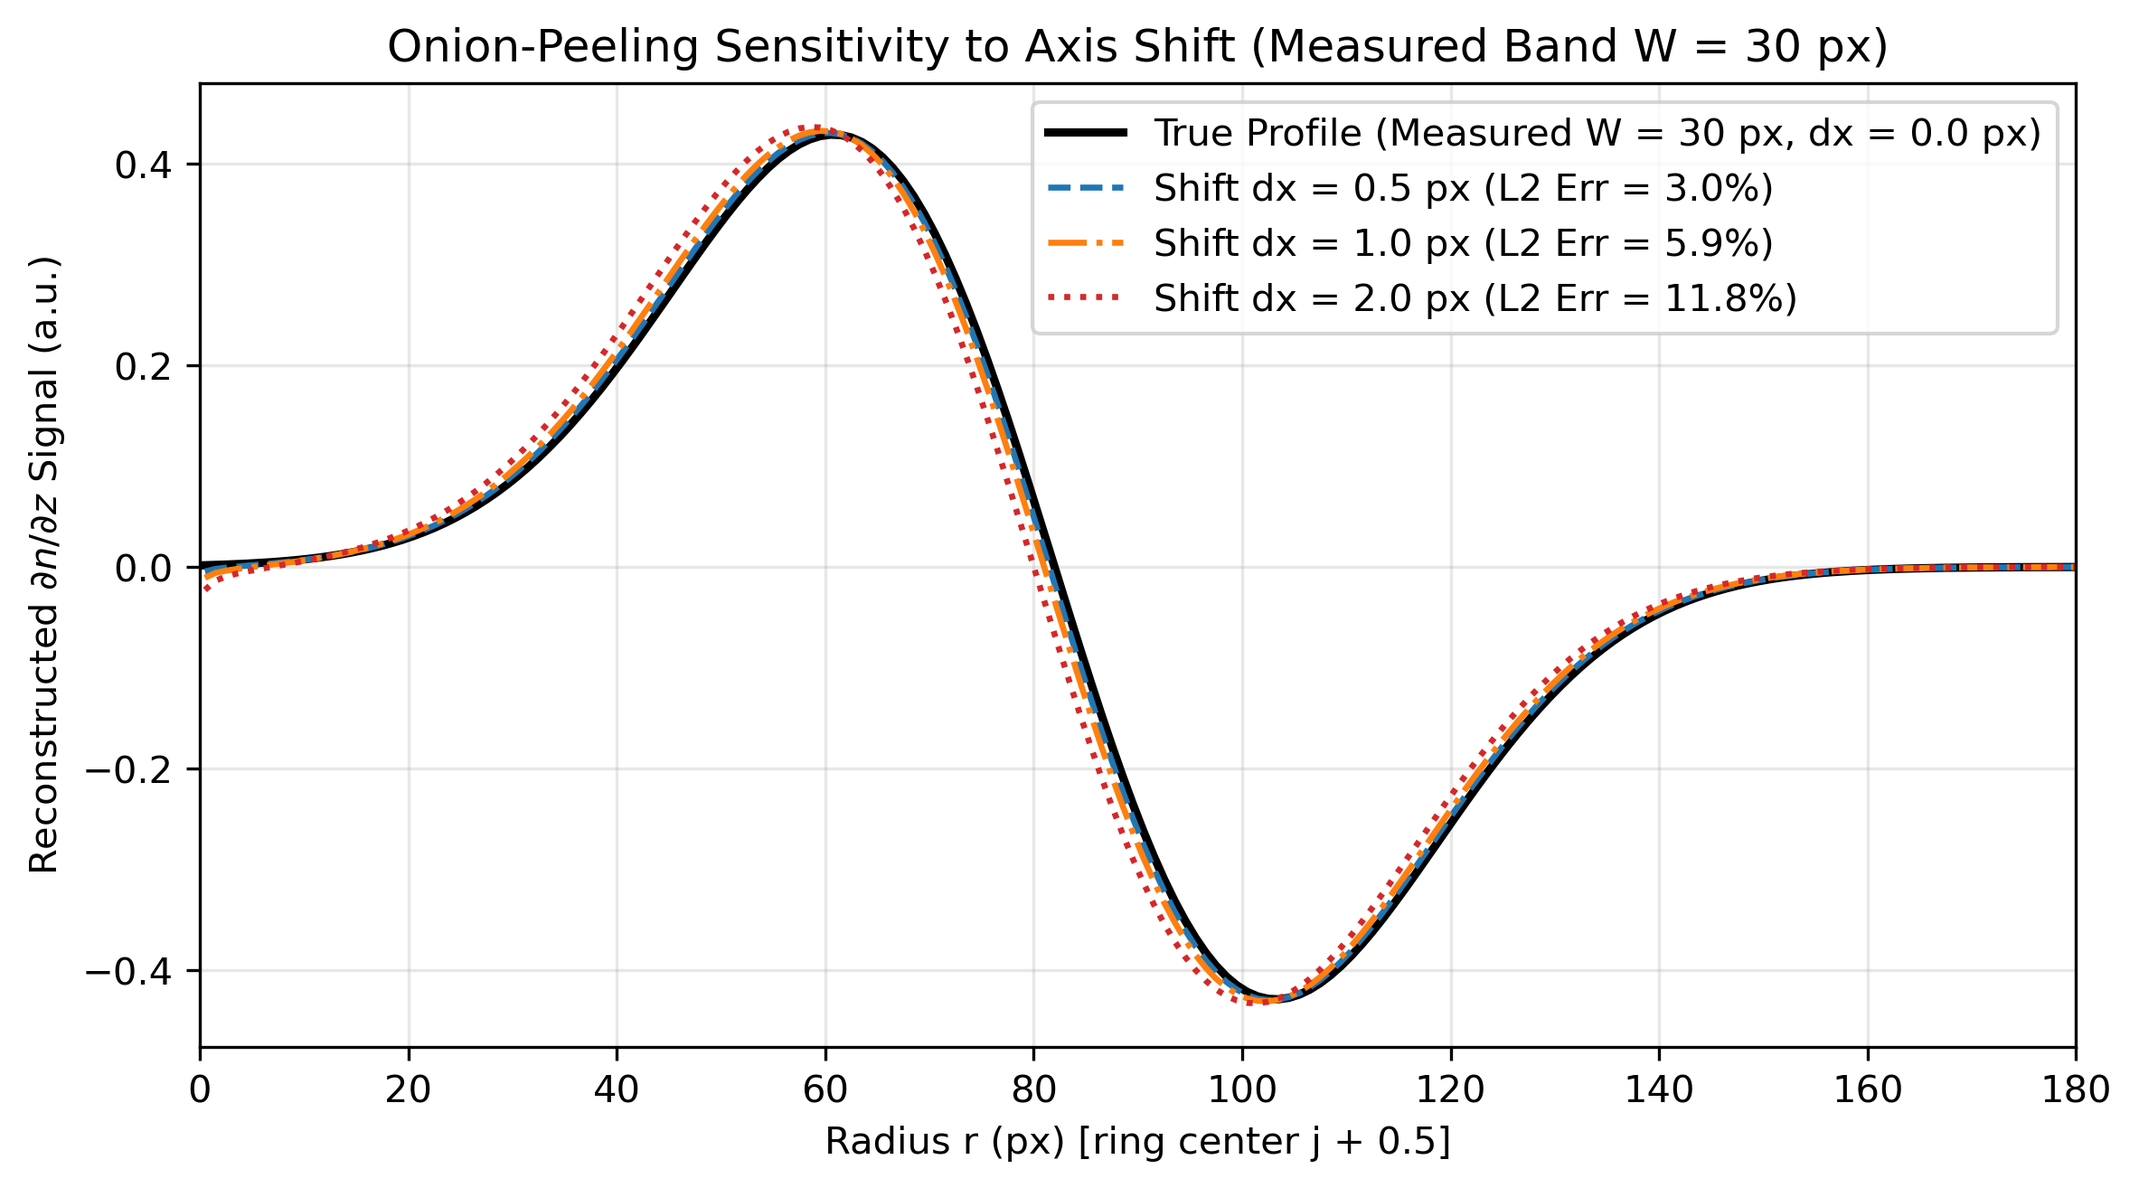
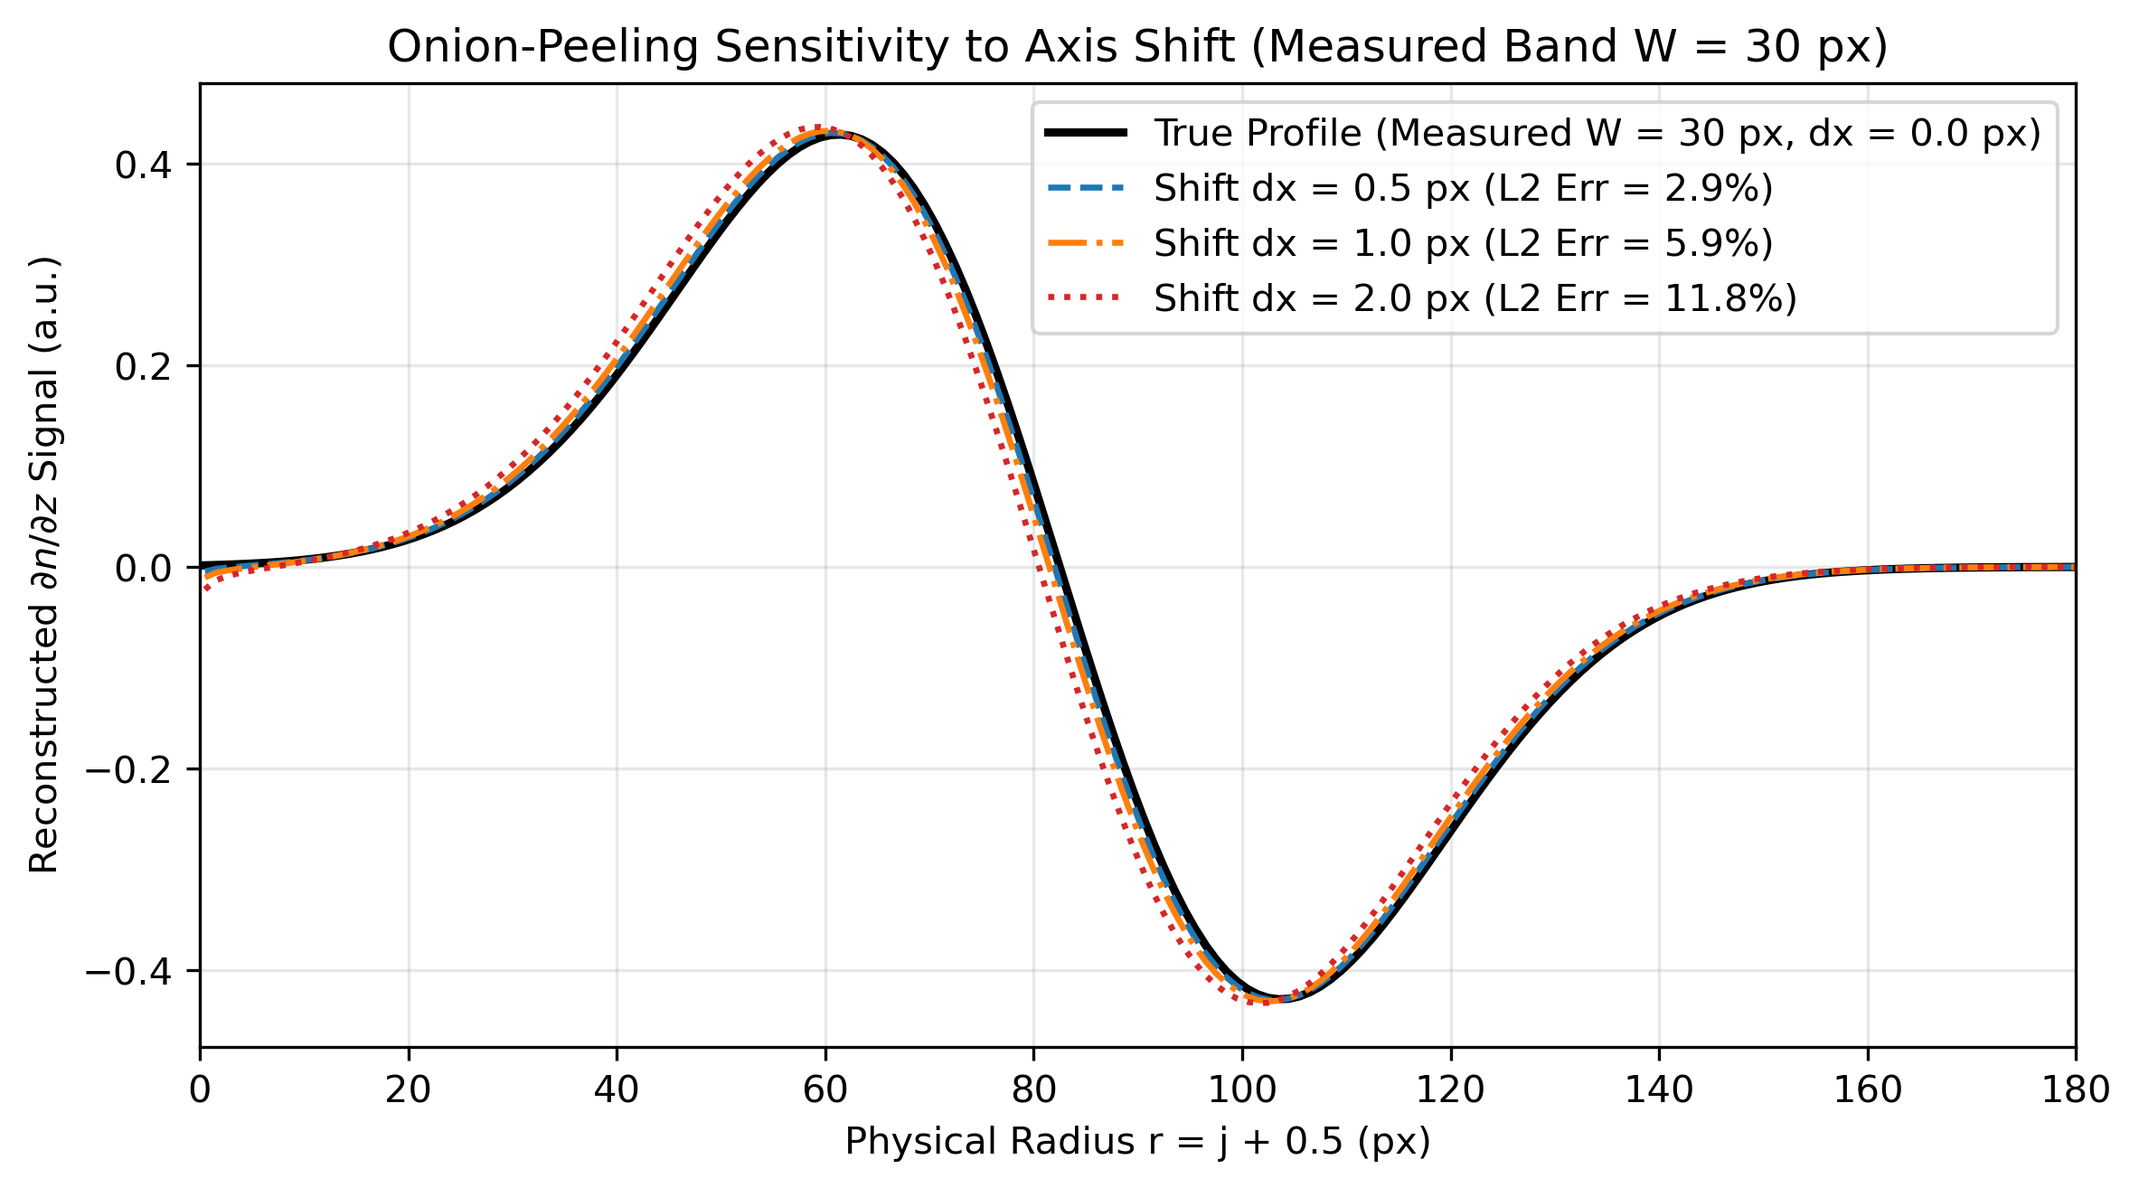
atualizacao de codigo

diff --git a/src/analysis_uncertainty.py b/src/analysis_uncertainty.py
@@ -9,8 +9,7 @@ from utils import (
     calcular_matriz_ART_inversa,
     extrair_metade_direita,
     carregar_delta_eixo,
-    medir_corpo_rombo_background,
-    D_BLUFF_MM
+    medir_corpo_rombo_background
 )
 
 BASE_DIR = os.path.dirname(os.path.dirname(os.path.abspath(__file__)))
@@ -112,22 +111,21 @@ np.save(os.path.join(DIR_PROCESSED, 'sigma_rec_bg.npy'), sigma_rec_bg_full)
 np.save(os.path.join(DIR_PROCESSED, 'rms_ab1_corrigido.npy'), rms_ab1_corr_full)
 np.save(os.path.join(DIR_PROCESSED, 'rms_iso_ab1_corrigido.npy'), rms_iso_corr_full)
 
-# Measure and save burner geometry from Background so all visualization scripts use the exact measured R_b
 d_bluff_px, centro_bg, delta_bg = medir_corpo_rombo_background(bg_medio, COL_SIMETRIA)
 r_bluff_px = 0.5 * d_bluff_px
-scale_mm_per_px = D_BLUFF_MM / d_bluff_px
 np.save(
     os.path.join(DIR_PROCESSED, 'geometria_queimador.npy'),
-    np.array([d_bluff_px, r_bluff_px, centro_bg, delta_bg, scale_mm_per_px])
+    np.array([d_bluff_px, r_bluff_px, centro_bg, delta_bg])
 )
 
 rms_eixo_before = float(np.mean(rms_ab1_chama[:, 0]))
 rms_eixo_after = float(np.mean(rms_ab1_corr[:, 0]))
 pct_eixo = ((rms_eixo_after - rms_eixo_before) / rms_eixo_before) * 100.0
 
-r_frente_ref = int(np.argmin(media_ab1_chama[80, 25:140]) + 25)
-rms_front_before = float(rms_ab1_chama[80, r_frente_ref])
-rms_front_after = float(rms_ab1_corr[80, r_frente_ref])
+j_frente_ref = int(np.argmin(media_ab1_chama[80, 25:140]) + 25)
+r_frente_ref = j_frente_ref + 0.5
+rms_front_before = float(rms_ab1_chama[80, j_frente_ref])
+rms_front_after = float(rms_ab1_corr[80, j_frente_ref])
 pct_front = ((rms_front_after - rms_front_before) / rms_front_before) * 100.0
 
 r_slice = slice(20, 150)
@@ -136,23 +134,23 @@ frac_iso_sem_sinal = np.mean(rms_iso_ab1[:, r_slice] <= sigma_rec_bg[:, r_slice]
 snr_chama_frente = np.mean(rms_ab1_chama[40:200, 75:100] / sigma_rec_bg[40:200, 75:100])
 
 print(f"Mean Raw Sensor Noise (Background RMS, delta={delta_aplicado:+.2f} px): {np.mean(rms_bg_raw):.4f} a.u.")
-print(f"Reconstructed Background Noise: Axis R=0 = {np.mean(sigma_rec_bg[:, 0]):.4f} | Radial Mean = {np.mean(sigma_rec_bg):.4f} a.u.")
-print(f"Flame RMS at Axis (R=0): Uncorrected = {rms_eixo_before:.4f} -> Corrected = {rms_eixo_after:.4f} ({pct_eixo:+.1f}%)")
-print(f"Flame RMS at Front (Z=80, R={r_frente_ref}): Uncorrected = {rms_front_before:.4f} -> Corrected = {rms_front_after:.4f} ({pct_front:+.1f}%)")
-print(f"\nISO Null-Case Verification (r = 20..150 px):")
+print(f"Reconstructed Background Noise: Axis j=0 (r=0.5 px) = {np.mean(sigma_rec_bg[:, 0]):.4f} | Radial Mean = {np.mean(sigma_rec_bg):.4f} a.u.")
+print(f"Flame RMS at Axis (j=0, r=0.5 px): Uncorrected = {rms_eixo_before:.4f} -> Corrected = {rms_eixo_after:.4f} ({pct_eixo:+.1f}%)")
+print(f"Flame RMS at Front (Z=80, j={j_frente_ref}, r={r_frente_ref:.1f} px): Uncorrected = {rms_front_before:.4f} -> Corrected = {rms_front_after:.4f} ({pct_front:+.1f}%)")
+print(f"\nISO Null-Case Verification (j = 20..150):")
 print(f"   -> ISO RMS / sigma_rec range: {np.min(snr_iso_perfil):.2f} to {np.max(snr_iso_perfil):.2f} (Flame front is ~{snr_chama_frente:.1f}x noise)")
 print(f"   -> Pixels without resolvable signal (RMS_iso <= sigma_rec): {frac_iso_sem_sinal:.1f}%")
-print(f"   -> ISO RMS at R=20 px (Z=40..120): Uncorrected = {np.mean(rms_iso_ab1[40:121, 20]):.3f} -> Corrected = {np.mean(rms_iso_corr[40:121, 20]):.3f} a.u.\n")
+print(f"   -> ISO RMS at j=20 (r=20.5 px, Z=40..120): Uncorrected = {np.mean(rms_iso_ab1[40:121, 20]):.3f} -> Corrected = {np.mean(rms_iso_corr[40:121, 20]):.3f} a.u.\n")
 
 fig_rms, axs_rms = plt.subplots(1, 3, figsize=(15, 4.2))
 for i, z in enumerate([40, 80, 120]):
-    r_ax = np.arange(NUM_PIXEIS_RAIO) + 0.5  # Ring center r_j = j + 0.5 px
+    r_ax = np.arange(NUM_PIXEIS_RAIO) + 0.5
     axs_rms[i].plot(r_ax, rms_ab1_chama[z, :], 'r--', alpha=0.5, label='Flame Uncorrected RMS')
     axs_rms[i].plot(r_ax, rms_ab1_corr[z, :], 'r-', linewidth=1.8, label=r'Flame Corrected $\sqrt{RMS^2 - \sigma_{rec}^2}$')
     axs_rms[i].plot(r_ax, sigma_rec_bg[z, :], 'k:', linewidth=1.5, label=r'Propagated Noise $\sigma_{rec}$')
     axs_rms[i].plot(r_ax, rms_iso_corr[z, :], 'b-', alpha=0.8, linewidth=1.2, label='ISO Corrected RMS (Null Case)')
     axs_rms[i].set_title(f'Noise-Corrected RMS Profile (Z = {z} px)')
-    axs_rms[i].set_xlabel('Radius r (px)')
+    axs_rms[i].set_xlabel('Physical Radius r = j + 0.5 (px)')
     if i == 0:
         axs_rms[i].set_ylabel(r'Reconstructed $\partial n / \partial z$ RMS (a.u.)')
     axs_rms[i].set_xlim(0, 200)
@@ -172,11 +170,12 @@ FPS = 400.0
 DT_MS = 1000.0 / FPS
 
 z_probes = [40, 80, 120]
-r_probe = 82
+j_probe = 82
+r_probe_phys = j_probe + 0.5
 series_temporais = np.zeros((N_CHAMA, len(z_probes)), dtype=np.float64)
-a_inv_row = A_inv[r_probe, :]
+a_inv_row = A_inv[j_probe, :]
 
-print(f"Extracting chronological time series at Flame Front R={r_probe} px (with delta={delta_aplicado:+.2f} px)...")
+print(f"Extracting chronological time series at Flame Front index j={j_probe} (r={r_probe_phys:.1f} px, r/R_b={r_probe_phys/r_bluff_px:.2f}, delta={delta_aplicado:+.2f} px)...")
 for idx_f, arq in enumerate(arquivos_chama):
     img = iio.imread(arq).astype(np.float64)
     img_sub = img - bg_medio
@@ -208,7 +207,6 @@ for idx_z, z_val in enumerate(z_probes):
     fator_inflacao = np.sqrt(tau_int_frames)
     neff_dict[z_val] = n_eff
     
-    # Active-zone median relative SE at this height's N_eff(z)
     se_rel_z = (razao_rms_media_mediana / np.sqrt(n_eff)) * 100.0
     se_rel_z_dict[z_val] = se_rel_z
     
@@ -226,7 +224,7 @@ for idx_z, z_val in enumerate(z_probes):
     red_boot = ((se_acf_probe - se_boot) / se_acf_probe) * 100.0
     boot_diff_pct[z_val] = red_boot
     
-    print(f"Probe (Z={z_val:3d}, R={r_probe}): Zero-crossing = {lag_corte} frames ({lag_corte*DT_MS:.1f} ms)")
+    print(f"Probe (Z={z_val:3d}, j={j_probe}, r={r_probe_phys:.1f} px): Zero-crossing = {lag_corte} frames ({lag_corte*DT_MS:.1f} ms)")
     print(f"   -> Integral Time Scale tau_int = {tau_int_ms:.2f} ms ({tau_int_frames:.2f} frames/indep. sample)")
     print(f"   -> N_eff(Z={z_val}) = {n_eff:.0f} | Active-Zone Relative SE(Z={z_val}) = {se_rel_z:.2f}%")
     print(f"   -> Probe SE: Naive={se_naive_probe:.4f}, ACF={se_acf_probe:.4f} (conservative), Bootstrap={se_boot:.4f} (-{red_boot:.1f}% vs ACF)")
@@ -238,7 +236,7 @@ for idx_z, z_val in enumerate(z_probes):
 plt.axhline(0, color='black', linestyle='--', alpha=0.6)
 plt.xlabel('Time Lag $\\tau$ (ms) [at 400 fps]')
 plt.ylabel('Autocorrelation Coefficient $\\rho(\\tau)$')
-plt.title(f'Temporal Autocorrelation in the Flame Front (R = {r_probe} px, $\\delta = {delta_aplicado:+.2f}$ px)')
+plt.title(f'Temporal Autocorrelation at Flame Front (j={j_probe}, r={r_probe_phys:.1f} px, $\\delta = {delta_aplicado:+.2f}$ px)')
 plt.grid(True, alpha=0.3)
 plt.legend()
 plt.tight_layout()
@@ -268,10 +266,10 @@ if os.path.exists(caminho_delta):
         print(f"   -> Global optimum: delta = {d_med:+.2f} px (10%-min interval: [{d_10_l:+.2f}, {d_10_h:+.2f}] px)")
         print(f"   -> Axial z-blocks range: [{d_b_l:+.2f}, {d_b_h:+.2f}] px | Block dispersion = +- {d_std:.2f} px (justifies +-0.5 px budget)")
 
-print(f"2. Independent Bluff-Body Measurement from Background Image (Z = 335..500 px, corrected sub-pixel parabola):")
-print(f"   -> Measured Bluff-Body Diameter: D_b = {d_bluff_px:.2f} px (R_b = {r_bluff_px:.2f} px)")
+print(f"2. Independent Bluff-Body Measurement from Background Image (Z = 335..500 px):")
+print(f"   -> Measured Bluff-Body Diameter: D_b = {d_bluff_px:.2f} px (Radius R_b = {r_bluff_px:.2f} px)")
 print(f"   -> Burner Center in Background: col = {centro_bg:.2f} px (delta_bg = {delta_bg:+.2f} px vs flame delta = {delta_medido:+.2f} px)")
-print(f"   -> Spatial Scale Factor: {scale_mm_per_px:.4f} mm/px (for D_b = {D_BLUFF_MM:.1f} mm — confirm exact value in lab guide)")
+print(f"   -> Primary Normalization Scale: dimensionless r / R_b (with R_b = {r_bluff_px:.2f} px, independent of mm calibration)")
 
 fwhm_lista = []
 for z_val in range(40, 250):
@@ -282,12 +280,14 @@ for z_val in range(40, 250):
         if largura_meia > 5:
             fwhm_lista.append(largura_meia)
 fwhm_mediana = float(np.median(fwhm_lista))
-print(f"3. Real Negative Band Width (FWHM across z=40..250 px): Median = {fwhm_mediana:.1f} px (10–90% range = {np.percentile(fwhm_lista, 10):.0f}–{np.percentile(fwhm_lista, 90):.0f} px)")
+fwhm_p10, fwhm_p90 = float(np.percentile(fwhm_lista, 10)), float(np.percentile(fwhm_lista, 90))
+print(f"3. Real Negative Band Width (FWHM across z=40..250 px):")
+print(f"   -> In pixels: Median = {fwhm_mediana:.1f} px (10–90% range = {fwhm_p10:.0f}–{fwhm_p90:.0f} px)")
+print(f"   -> Dimensionless (FWHM / R_b): Median = {fwhm_mediana/r_bluff_px:.2f} (10–90% range = {fwhm_p10/r_bluff_px:.2f}–{fwhm_p90/r_bluff_px:.2f})")
 
-# Point 2: Pixel j is the ring [j, j+1] with geometric center at r_j = j + 0.5 px
 r_grid = np.arange(NUM_PIXEIS_RAIO, dtype=np.float64)
 r_ring_centers = r_grid + 0.5
-R_flame_syn = 82.0
+R_flame_syn = 82.5
 W_real = fwhm_mediana
 W_pess = 8.8
 
@@ -309,7 +309,7 @@ f_true_centers = perfil_sintetico(r_ring_centers, R_flame_syn, W_real)
 p_cont_0 = projecao_abel_continua(R_flame_syn, W_real)
 f_rec_cont_0 = A_inv @ p_cont_0
 erro_algoritmico = float((np.linalg.norm(f_rec_cont_0 - f_true_centers) / np.linalg.norm(f_true_centers)) * 100)
-print(f"\n4. Pure Algorithmic Discretization Error (evaluated at ring centers r_j = j + 0.5 px, NO inverse crime): {erro_algoritmico:.2f}%")
+print(f"\n4. Pure Algorithmic Discretization Error (evaluated at ring centers r = j + 0.5 px, NO inverse crime): {erro_algoritmico:.2f}%")
 
 p_exact_real = A_forward @ f_true_centers
 f_true_pess = perfil_sintetico(r_ring_centers, R_flame_syn, W_pess)
@@ -327,7 +327,6 @@ for dx in desvios_px:
     erros_pess[dx] = float((np.linalg.norm(f_sh_pess - f_true_pess) / np.linalg.norm(f_true_pess)) * 100)
     print(f"   Axis Shift dx = {dx:.1f} px -> L2 Error (Measured W={W_real:.0f} px): {erros_real[dx]:5.2f}% | (Pessimistic W=8.8 px): {erros_pess[dx]:5.2f}%")
 
-# Height-dependent total combined uncertainty u_total(z)
 u_tot_z = {
     z_val: np.sqrt(se_rel_z_dict[z_val]**2 + erros_real[0.5]**2 + erro_algoritmico**2)
     for z_val in z_probes
@@ -350,7 +349,7 @@ for dx, cor, estilo in zip([0.5, 1.0, 2.0], ['tab:blue', 'tab:orange', 'tab:red'
     plt.plot(r_ring_centers, f_sh, color=cor, linestyle=estilo, linewidth=1.6,
              label=f'Shift dx = {dx:.1f} px (L2 Err = {erros_real[dx]:.1f}%)')
 plt.xlim(0, 180)
-plt.xlabel('Radius r (px) [ring center j + 0.5]')
+plt.xlabel('Physical Radius r = j + 0.5 (px)')
 plt.ylabel(r'Reconstructed $\partial n / \partial z$ Signal (a.u.)')
 plt.title(f'Onion-Peeling Sensitivity to Axis Shift (Measured Band W = {W_real:.0f} px)')
 plt.grid(True, alpha=0.3)

diff --git a/src/analysis_flame_front.py b/src/analysis_flame_front.py
@@ -12,7 +12,7 @@ rms_iso_corr = np.load(os.path.join(DIR_PROCESSED, 'rms_iso_ab1_corrigido.npy'))
 rms_iso_raw = np.load(os.path.join(DIR_PROCESSED, 'rms_iso_ab1.npy')).copy()
 
 caminho_geom = os.path.join(DIR_PROCESSED, 'geometria_queimador.npy')
-r_bluff_px = float(np.load(caminho_geom)[1]) if os.path.exists(caminho_geom) else 54.0
+r_bluff_px = float(np.load(caminho_geom)[1]) if os.path.exists(caminho_geom) else 54.06
 
 Z_MASK = 325
 for arr in (media_chama, rms_chama_corr, rms_iso_corr, rms_iso_raw):
@@ -22,84 +22,90 @@ RAIO_MIN = 25
 RAIO_MAX = 140
 
 def detetar_frente_altura(z_idx):
+    """Returns ring indices (j_min_media, j_rms_50). Physical radius is r = j + 0.5 px."""
     perfil_m = uniform_filter1d(media_chama[z_idx, :], size=5)
     perfil_r = uniform_filter1d(rms_chama_corr[z_idx, :], size=5)
     
-    r_min_media = int(np.argmin(perfil_m[RAIO_MIN:RAIO_MAX]) + RAIO_MIN)
+    j_min_media = int(np.argmin(perfil_m[RAIO_MIN:RAIO_MAX]) + RAIO_MIN)
     
     rms_patamar = np.max(perfil_r[RAIO_MIN:110])
     indices_acima_50 = np.where(perfil_r[RAIO_MIN:160] >= 0.50 * rms_patamar)[0]
-    r_rms_50 = int(indices_acima_50[-1] + RAIO_MIN) if len(indices_acima_50) > 0 else r_min_media
-    return r_min_media, r_rms_50
+    j_rms_50 = int(indices_acima_50[-1] + RAIO_MIN) if len(indices_acima_50) > 0 else j_min_media
+    return j_min_media, j_rms_50
 
 z_todas = np.arange(20, 316)
 r_frente_media = []
 r_frente_rms50 = []
 
 for z_val in z_todas:
-    rm, rr = detetar_frente_altura(z_val)
-    r_frente_media.append(rm)
-    r_frente_rms50.append(rr)
+    jm, jr = detetar_frente_altura(z_val)
+    r_frente_media.append(jm + 0.5)
+    r_frente_rms50.append(jr + 0.5)
 
 r_frente_media_smooth = uniform_filter1d(np.array(r_frente_media, dtype=np.float64), size=9)
 r_frente_rms50_smooth = uniform_filter1d(np.array(r_frente_rms50, dtype=np.float64), size=9)
 
-print("--- FLAME FRONT TRACKING (CENTER OF BAND vs OUTER 50% RMS BOUNDARY) ---")
+print("--- FLAME FRONT TRACKING (PHYSICAL RADIUS r = j + 0.5 px AND DIMENSIONLESS r / R_b) ---")
 rm_dev, rr_dev = [], []
 for z_check in [40, 60, 80, 100, 120, 160, 200]:
-    rm, rr = detetar_frente_altura(z_check)
-    rm_dev.append(rm)
-    rr_dev.append(rr)
+    jm, jr = detetar_frente_altura(z_check)
+    rm_phys, rr_phys = jm + 0.5, jr + 0.5
+    rm_dev.append(rm_phys)
+    rr_dev.append(rr_phys)
     iso_u_half = np.where(rms_iso_raw[z_check, 20:] < 0.5 * np.max(rms_iso_raw[z_check, 20:60]))[0]
     iso_c_half = np.where(rms_iso_corr[z_check, 20:] < 0.5 * np.max(rms_iso_corr[z_check, 20:60]))[0]
-    r_iso_u = int(iso_u_half[0] + 20) if len(iso_u_half) > 0 else 20
-    r_iso_c = int(iso_c_half[0] + 20) if len(iso_c_half) > 0 else 20
-    print(f"Z={z_check:3d} px | Band Center (Mean Min): R={rm:3d} px | "
-          f"Outer 50% Corr. RMS: R={rr:3d} px | ISO Half-Width (Uncorr->Corr): {r_iso_u:2d}->{r_iso_c:2d} px")
+    r_iso_u = (int(iso_u_half[0] + 20) if len(iso_u_half) > 0 else 20) + 0.5
+    r_iso_c = (int(iso_c_half[0] + 20) if len(iso_c_half) > 0 else 20) + 0.5
+    print(f"Z={z_check:3d} px | Band Center: j={jm:2d} (r={rm_phys:5.1f} px, r/R_b={rm_phys/r_bluff_px:.2f}) | "
+          f"Outer 50% RMS: j={jr:3d} (r={rr_phys:5.1f} px, r/R_b={rr_phys/r_bluff_px:.2f}) | "
+          f"ISO Half-Width: {r_iso_u:4.1f}->{r_iso_c:4.1f} px")
 
 alturas_z = [40, 80, 120]
 fig, axs = plt.subplots(1, 4, figsize=(21, 5.2))
 
 for i, z in enumerate(alturas_z):
-    raio = np.arange(rms_chama_corr.shape[1]) + 0.5  # Ring center r_j = j + 0.5 px
+    raio = np.arange(rms_chama_corr.shape[1]) + 0.5
     perfil_m = media_chama[z, :]
     perfil_c = rms_chama_corr[z, :]
     perfil_i_corr = rms_iso_corr[z, :]
     perfil_i_raw = rms_iso_raw[z, :]
     
-    r_m, r_r50 = detetar_frente_altura(z)
+    jm, jr50 = detetar_frente_altura(z)
+    rm_p, rr_p = jm + 0.5, jr50 + 0.5
     
     axs[i].plot(raio, perfil_c, 'r-', linewidth=1.8, label='Flame Corrected RMS')
     axs[i].plot(raio, -perfil_m, 'k-', alpha=0.75, linewidth=1.5, label=r'$-\mathrm{Mean}\ (\partial n/\partial z)$')
     axs[i].plot(raio, perfil_i_raw, 'b:', alpha=0.6, linewidth=1.2, label='ISO Uncorrected RMS')
     axs[i].plot(raio, perfil_i_corr, 'b-', linewidth=1.4, label='ISO Corrected RMS (Null)')
     
-    axs[i].axvline(r_m + 0.5, color='green', linestyle='-', linewidth=2.0, label=f'Band Center R={r_m} px')
-    axs[i].axvline(r_r50 + 0.5, color='darkorange', linestyle='--', linewidth=2.0, label=f'Outer 50% RMS R={r_r50} px')
+    axs[i].axvline(rm_p, color='green', linestyle='-', linewidth=2.0,
+                   label=f'Band Center r={rm_p:.1f} px ({rm_p/r_bluff_px:.2f}$R_b$)')
+    axs[i].axvline(rr_p, color='darkorange', linestyle='--', linewidth=2.0,
+                   label=f'Outer 50% RMS r={rr_p:.1f} px ({rr_p/r_bluff_px:.2f}$R_b$)')
     
     axs[i].set_title(f'Radial Profiles at Z = {z} px')
-    axs[i].set_xlabel('Radius r (px)')
+    axs[i].set_xlabel('Physical Radius r = j + 0.5 (px)')
     if i == 0:
         axs[i].set_ylabel(r'Reconstructed $\partial n / \partial z$ Signal (a.u.)')
     axs[i].set_xlim(0, 180)
     axs[i].grid(True, alpha=0.3)
-    axs[i].legend(fontsize=8, loc='upper right')
+    axs[i].legend(fontsize=7.8, loc='upper right')
 
 limite_cor = np.percentile(np.abs(media_chama[:Z_MASK, :]), 99)
 im = axs[3].imshow(media_chama, cmap='RdBu_r', aspect='auto', vmin=-limite_cor, vmax=limite_cor)
 axs[3].plot(r_frente_media_smooth, z_todas, color='lime', linewidth=2.4,
-            label=f'Band Center: Mean Min ({min(rm_dev)}–{max(rm_dev)} px)')
+            label=f'Band Center: r={min(rm_dev):.1f}–{max(rm_dev):.1f} px ({min(rm_dev)/r_bluff_px:.2f}–{max(rm_dev)/r_bluff_px:.2f}$R_b$)')
 axs[3].plot(r_frente_rms50_smooth, z_todas, color='gold', linestyle='--', linewidth=2.2,
-            label=f'Outer 50% Corr. RMS ({min(rr_dev)}–{max(rr_dev)} px)')
+            label=f'Outer 50% RMS: r={min(rr_dev):.1f}–{max(rr_dev):.1f} px ({min(rr_dev)/r_bluff_px:.2f}–{max(rr_dev)/r_bluff_px:.2f}$R_b$)')
 axs[3].axhline(Z_MASK, color='black', linestyle='--', alpha=0.6, label='Bluff-body Mask (Z=325)')
 axs[3].scatter([r_bluff_px], [320], color='cyan', edgecolor='black', marker='^', s=100, zorder=6,
                label=f'Bluff-body Lip (R_b={r_bluff_px:.1f} px)')
 
 axs[3].set_title(r'Mean $\partial n / \partial z$ (a.u.) & Operational Boundaries')
-axs[3].set_xlabel('Radius r (px)')
+axs[3].set_xlabel('Physical Radius r = j + 0.5 (px)')
 axs[3].set_ylabel('Axial Coordinate z (px)')
 fig.colorbar(im, ax=axs[3], fraction=0.046, pad=0.04)
-axs[3].legend(loc='lower right', fontsize=8)
+axs[3].legend(loc='lower right', fontsize=7.5)
 
 plt.tight_layout()
 caminho_fig = os.path.join(DIR_PROCESSED, 'flame_front_and_iso_decay.png')

diff --git a/src/utils.py b/src/utils.py
@@ -1,14 +1,11 @@
 import os
 import numpy as np
 
-# Physical diameter of the bluff-body in mm (CONFIRM EXACT VALUE IN THE LAB GUIDE)
-D_BLUFF_MM = 50.0  
-
 def calcular_matriz_ART_inversa(num_pixeis):
     """
     Calculates the inverse geometric matrix for the Algebraic Reconstruction Technique
     (Onion-Peeling) in axisymmetric geometries.
-    Note: The reconstructed pixel j corresponds to the ring [j, j+1] centered at r_j = j + 0.5 px.
+    Note: The index j in {0, ..., N-1} represents the ring [j, j+1] with physical center at r = j + 0.5 px.
     """
     A = np.zeros((num_pixeis, num_pixeis), dtype=np.float64)
     for i in range(num_pixeis):
@@ -43,7 +40,7 @@ def carregar_delta_eixo(dir_processed):
 def medir_corpo_rombo_background(bg_medio, col_nominal=256):
     """
     Measures the diameter in pixels (D_b_px) and the geometric center of the burner
-    in the lower region of the background image (Z = 335..500 px) with sign-corrected
+    in the lower region of the background image (Z = 335..500 px) with
     sub-pixel parabolic refinement: idx + 0.5*(y0 - y2)/(y0 - 2*y1 + y2).
     """
     perfil_x = np.mean(bg_medio[335:500, :], axis=0)
